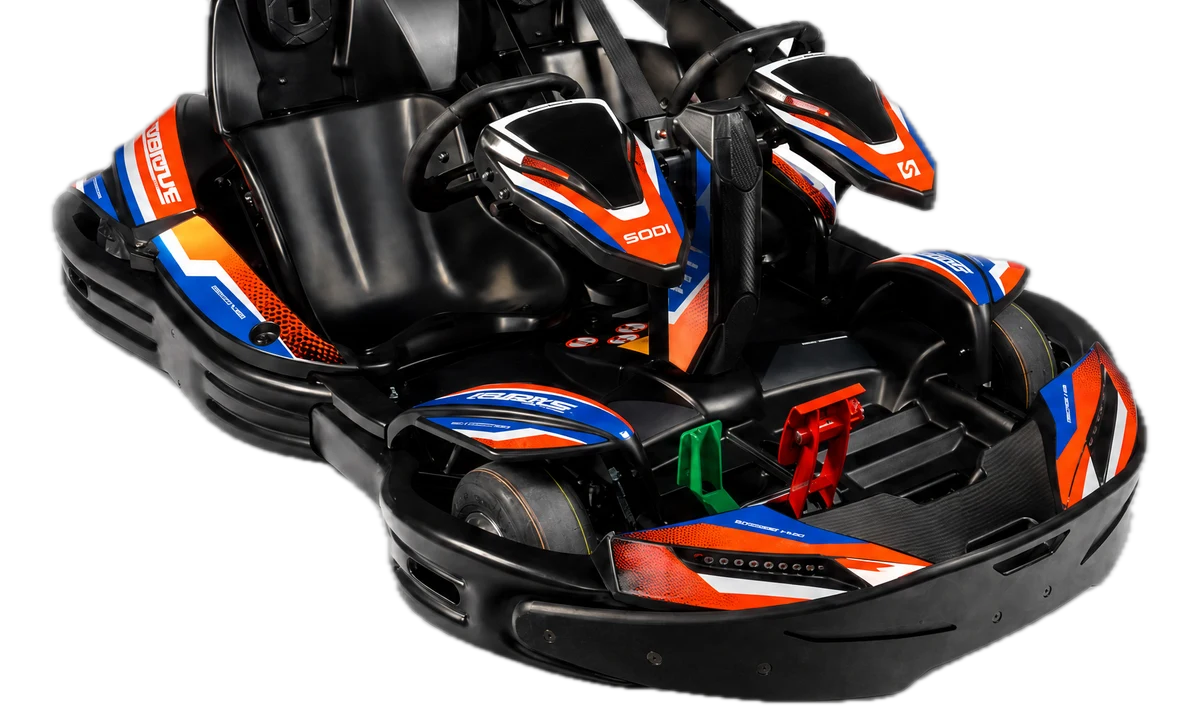
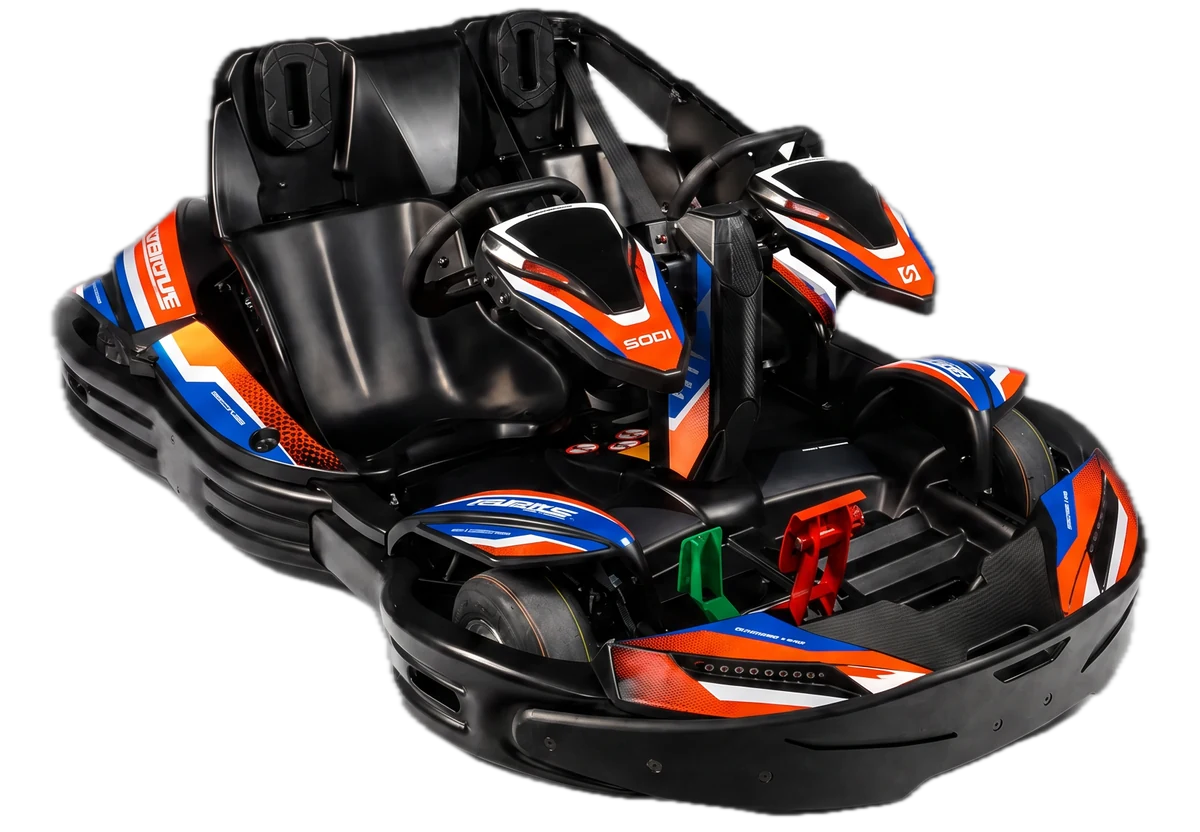
Kart biplace : visuel reconstruit en entier (sièges complets), roues alignées sur les autres karts

diff --git a/components/KartWidget.tsx b/components/KartWidget.tsx
@@ -40,9 +40,12 @@ export default function KartWidget({ kart }: { kart: Kart }) {
           src={`/images/${kart.image}`}
           alt={`${kart.model ?? kart.name}, ${kart.name} du circuit MegaKart`}
           width={1200}
-          height={720}
+          height={kart.imageHeight ?? 720}
           sizes="(min-width: 1024px) 320px, 60vw"
-          className="pointer-events-none absolute -right-[8%] top-1/2 w-[56%] -translate-y-[58%] object-contain drop-shadow-[0_16px_14px_rgba(0,0,0,0.55)]"
+          className="pointer-events-none absolute -right-[8%] top-1/2 w-[56%] object-contain drop-shadow-[0_16px_14px_rgba(0,0,0,0.55)]"
+          // Roues de tous les karts sur la même ligne : visuel 1200×720 → -58 % ;
+          // visuel plus haut (biplace entier) → décalage recalculé pour garder le même bas.
+          style={{ transform: `translateY(-${(1 - 0.252 / ((kart.imageHeight ?? 720) / 1200)) * 100}%)` }}
         />
       )}
 

diff --git a/lib/karts.ts b/lib/karts.ts
@@ -13,6 +13,8 @@ export type Kart = {
   note?: string;
   /** Visuel détouré (PNG transparent, vue 3/4 uniforme) */
   image?: string;
+  /** Hauteur du visuel sur 1200 px de large (défaut 720) — le biplace, reconstruit en entier, est plus haut. */
+  imageHeight?: number;
   /** Référence constructeur affichée sur la fiche (ex. « Sodi RT10 »). */
   model?: string;
   /** Libellé de la ligne d'accès (défaut « Âge ») */
@@ -66,6 +68,7 @@ export const KARTS: Kart[] = [
     engine: "4 temps · double commande",
     badge: "Duo",
     image: "sodi/sodi-2drive.webp",
+    imageHeight: 832,
     model: "Sodi 2Drive",
     priceHint: "Une session, deux pilotes",
     note: "L'adulte garde le contrôle du kart à tout moment.",
